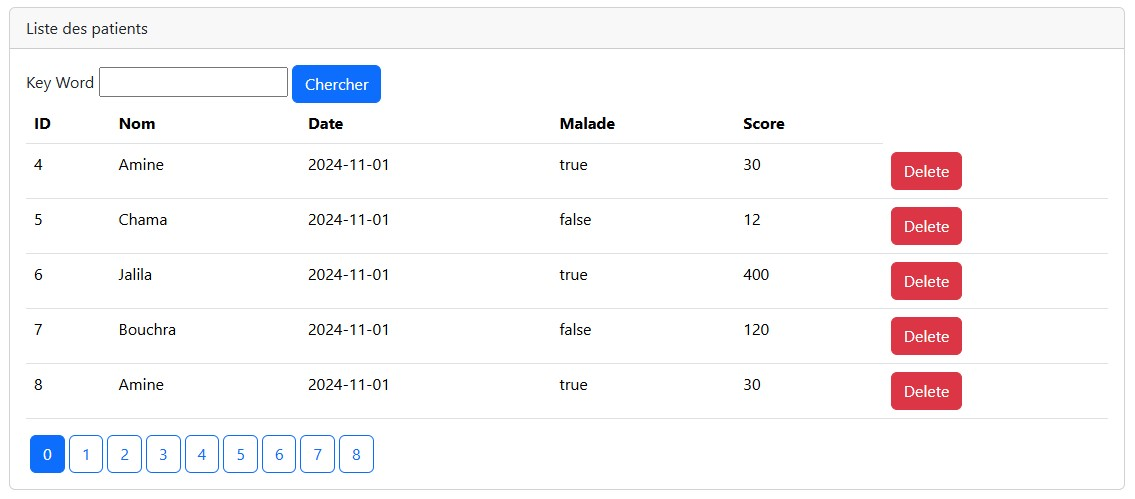
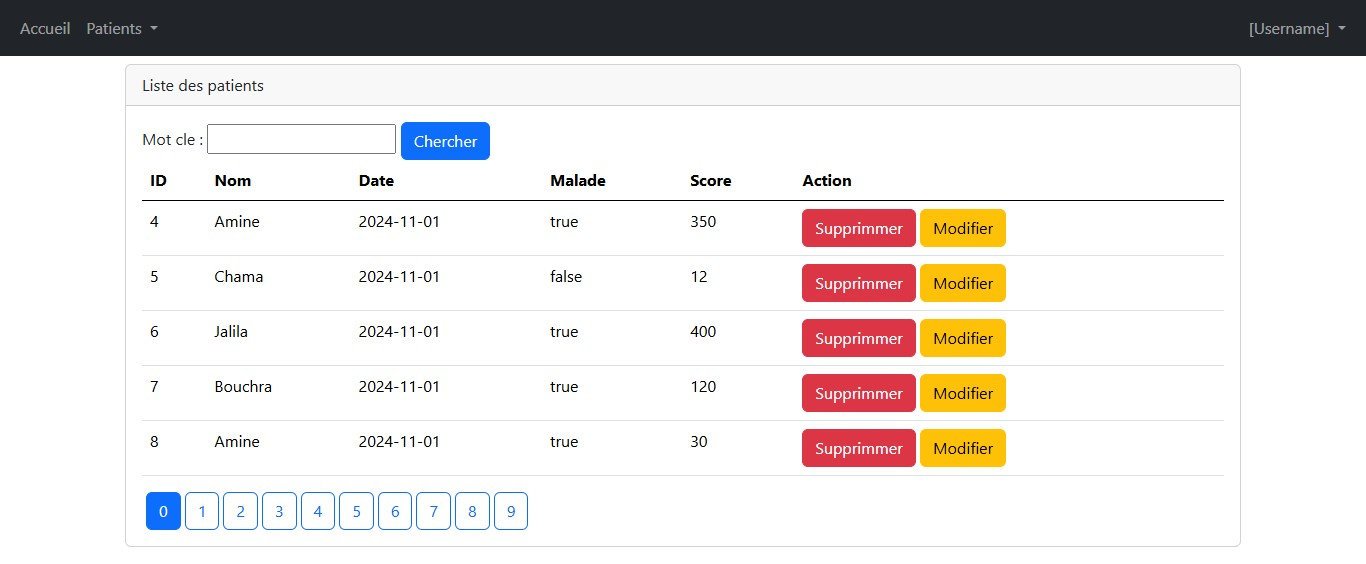
Commit

diff --git a/src/main/resources/templates/formPatients.html b/src/main/resources/templates/formPatients.html
@@ -12,27 +12,29 @@
     <div layout:fragment="content1">
         <div class="col-md-6 offset-3">
 
+            <h2 class="mt-3">Ajouter un patient</h2>
+
             <form method="post" th:action="@{save}">
                 <div>
-                    <label for="nom">Nom</label>
+                    <label for="nom" class="mt-2">Nom</label>
                     <input id="nom" class="form-control" type="text" name="nom" th:value="${patient.nom}">
                     <span class="text-danger" th:errors="${patient.nom}"></span>
                 </div>
 
                 <div>
-                    <label>Date de naissance</label>
+                    <label class="mt-2">Date de naissance</label>
                     <input class="form-control" type="date" name="dateNaissance" th:value="${patient.dateNaissance}">
                     <span class="text-danger" th:errors="${patient.dateNaissance}"></span>
                 </div>
 
                 <div>
-                    <label>Malade</label>
+                    <label class="mt-2">Malade</label>
                     <input type="checkbox" name="malade" th:checked="${patient.malade}">
                     <span th:errors="${patient.malade}"></span>
                 </div>
 
                 <div>
-                    <label>Score</label>
+                    <label class="mt-2">Score</label>
                     <input class="form-control" type="text" name="score" th:value="${patient.score}">
                     <span class="text-danger" th:errors="${patient.score}"></span>
                 </div>

diff --git a/src/main/resources/templates/patients.html b/src/main/resources/templates/patients.html
@@ -16,14 +16,14 @@
                 <div class="card-header bold">Liste des patients</div>
                 <div class="card-body">
                     <form method="get" th:action="@{index}">
-                        <label> Key Word</label>
+                        <label> Mot cle :</label>
                         <input type="text" name="keyword" th:value="${keyword}">
                         <button type="submit" class="btn btn-primary">Chercher</button>
                     </form>
 
 
                     <table class="table">
-                        <thead>
+                        <thead class="border-bottom-5 border-black">
                             <tr>
                                 <th>ID</th>
                                 <th>Nom</th>

diff --git a/src/main/resources/templates/template.html b/src/main/resources/templates/template.html
@@ -14,7 +14,7 @@
             <!-- Links -->
             <ul class="navbar-nav">
                 <li class="nav-item">
-                    <a class="nav-link" th:href="@{index}">Home</a>
+                    <a class="nav-link" th:href="@{index}">Accueil</a>
                 </li>
 
                 <li class="nav-item dropdown">
